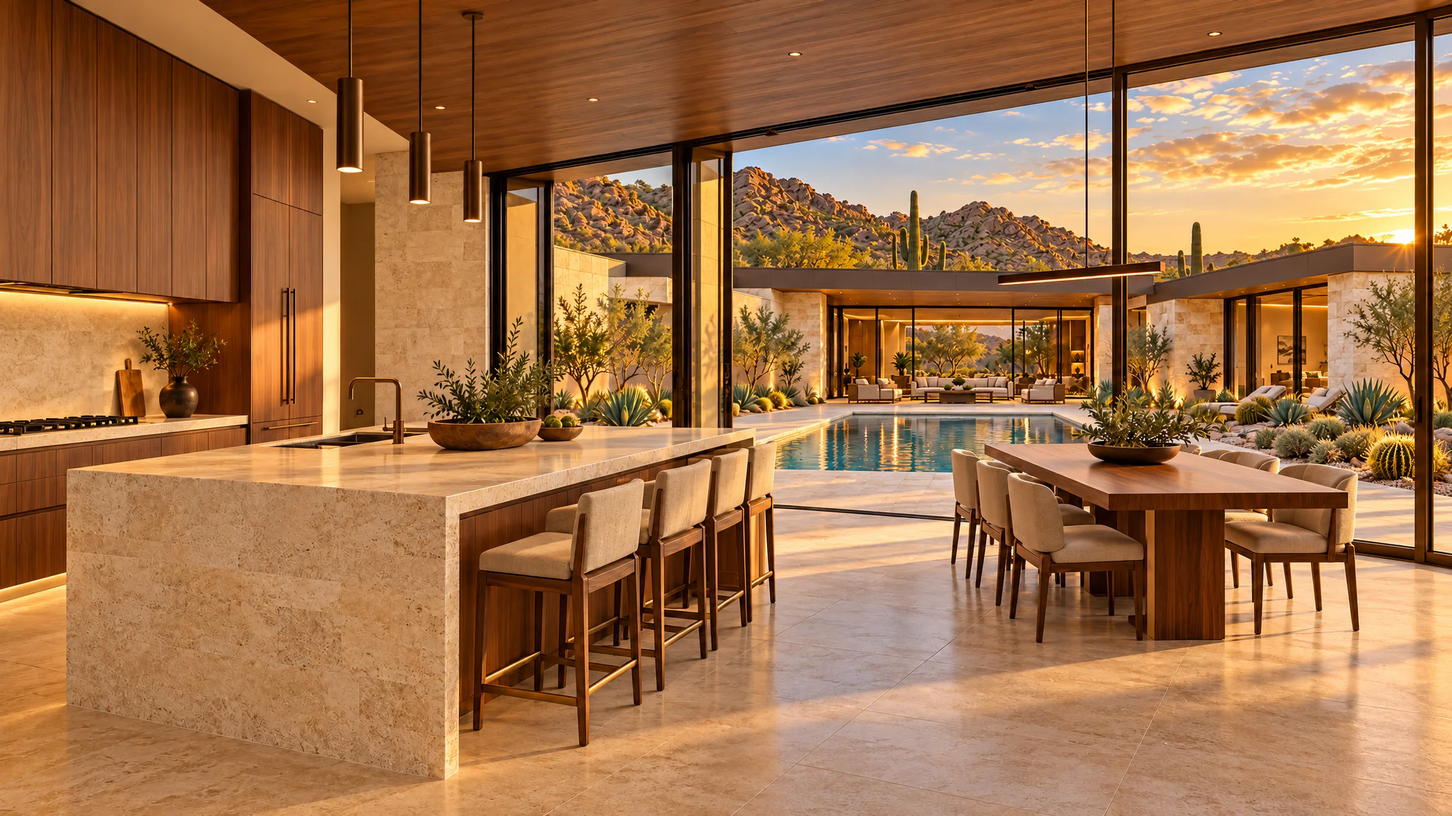
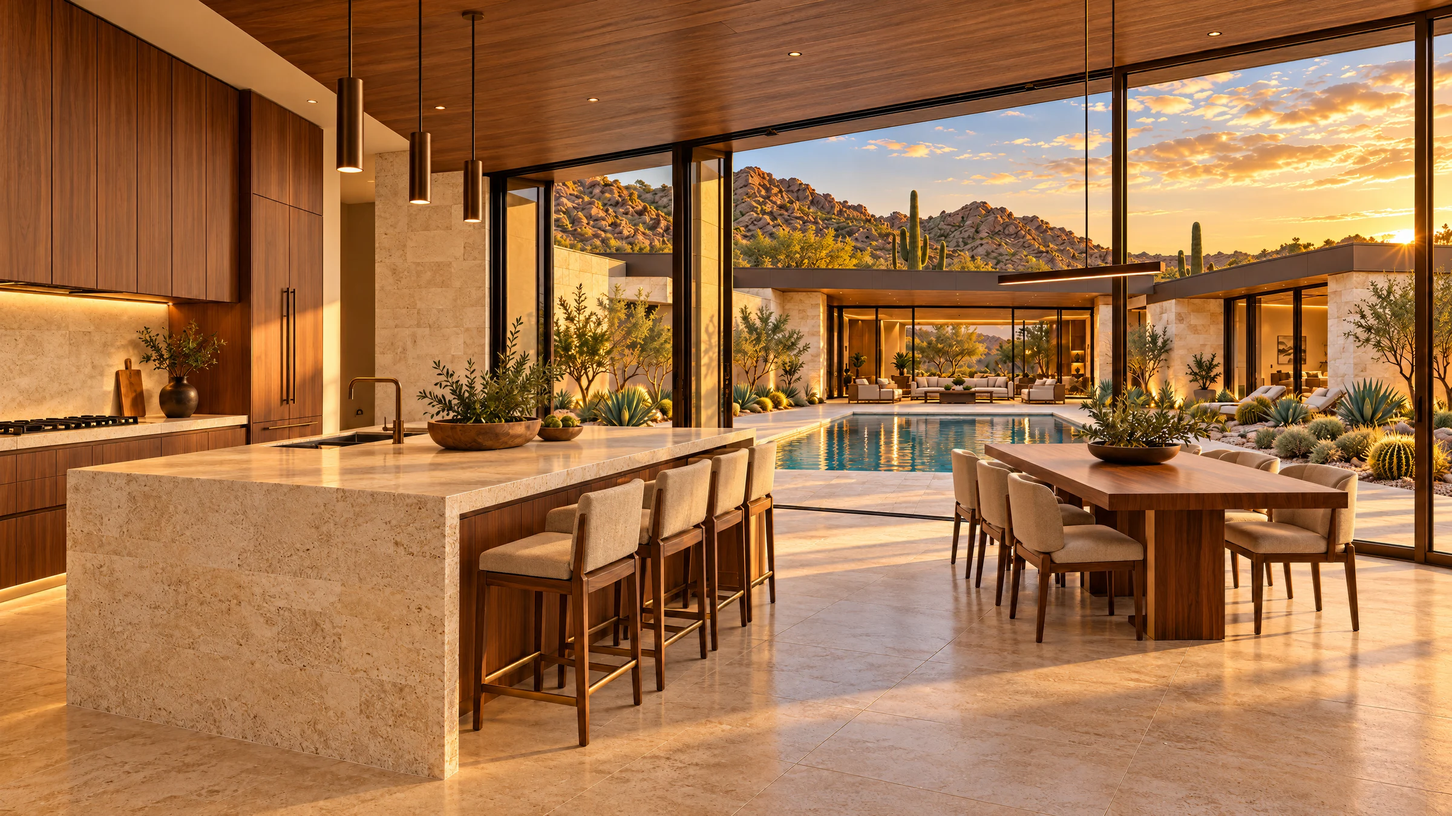
Casa Ocotillo: eleven pictures redrawn at 6K
Street, rear, aerial, top, entry, living room, kitchen and primary bath join the three
hours of the hero: travertine pores, wood grain, agave and gravel, pool reflections.

Claude-Session: https://claude.ai/code/session_01ASz1M7wvY36EhyLJqhTHPH

diff --git a/showcase/casa-ocotillo.html b/showcase/casa-ocotillo.html
@@ -56,7 +56,7 @@
 
 <section class="ap pin" id="approach" aria-label="The approach">
   <div class="stage">
-    <img class="fallback" src="../assets/showcase/casa-ocotillo/aerial-1600.webp" srcset="../assets/showcase/casa-ocotillo/aerial-900.webp 900w, ../assets/showcase/casa-ocotillo/aerial-1600.webp 1600w, ../assets/showcase/casa-ocotillo/aerial-2400.webp 2400w" sizes="100vw" width="1600" height="900" alt="The approach" loading="lazy" decoding="async">
+    <img class="fallback" src="../assets/showcase/casa-ocotillo/aerial-1600.webp?v=6k" srcset="../assets/showcase/casa-ocotillo/aerial-900.webp?v=6k 900w, ../assets/showcase/casa-ocotillo/aerial-1600.webp?v=6k 1600w, ../assets/showcase/casa-ocotillo/aerial-2400.webp?v=6k 2400w, ../assets/showcase/casa-ocotillo/aerial-3200.webp?v=6k 3200w" sizes="100vw" width="1600" height="900" alt="The approach" loading="lazy" decoding="async">
     <div class="stage-shade"></div>
     <div class="ap-head"><p class="eyebrow">The approach</p></div>
     <div class="ap-caps"><div class="ap-cap"><p class="n">01 / 03</p><h3>Arrival</h3><p>A crushed-granite drive winds through saguaro and palo verde to a quiet arrival court.</p></div><div class="ap-cap"><p class="n">02 / 03</p><h3>The street front</h3><p>Limestone walls, a bronze fascia and very few windows: the house keeps its view for the courtyard.</p></div><div class="ap-cap"><p class="n">03 / 03</p><h3>The threshold</h3><p>A ten-foot walnut pivot door under a deep portal. Beyond it, light from the courtyard pulls you through.</p></div></div>
@@ -82,14 +82,14 @@
 <section class="hz" id="rooms" aria-labelledby="hz-h">
   <div class="hz-track">
     <div class="hz-intro"><p class="eyebrow">Inside</p><h2 id="hz-h" style="margin-top:18px">Rooms that open to the water.</h2><p>Living room, kitchen and the primary bath each open onto the courtyard or a walled desert garden.</p></div>
-    <figure class="hz-card " data-cur="View" data-full="../assets/showcase/casa-ocotillo/int_living-2400.webp" data-cap="The living room"><img src="../assets/showcase/casa-ocotillo/int_living-1600.webp" srcset="../assets/showcase/casa-ocotillo/int_living-900.webp 900w, ../assets/showcase/casa-ocotillo/int_living-1600.webp 1600w, ../assets/showcase/casa-ocotillo/int_living-2400.webp 2400w" sizes="70vw" width="1600" height="900" alt="The living room" loading="lazy" decoding="async"><figcaption><span>The living room</span><span>01</span></figcaption></figure><figure class="hz-card " data-cur="View" data-full="../assets/showcase/casa-ocotillo/int_kitchen_dining-2400.webp" data-cap="Kitchen and dining"><img src="../assets/showcase/casa-ocotillo/int_kitchen_dining-1600.webp" srcset="../assets/showcase/casa-ocotillo/int_kitchen_dining-900.webp 900w, ../assets/showcase/casa-ocotillo/int_kitchen_dining-1600.webp 1600w, ../assets/showcase/casa-ocotillo/int_kitchen_dining-2400.webp 2400w" sizes="70vw" width="1600" height="900" alt="Kitchen and dining" loading="lazy" decoding="async"><figcaption><span>Kitchen and dining</span><span>02</span></figcaption></figure><figure class="hz-card " data-cur="View" data-full="../assets/showcase/casa-ocotillo/int_primary_bath-2400.webp" data-cap="The primary bath"><img src="../assets/showcase/casa-ocotillo/int_primary_bath-1600.webp" srcset="../assets/showcase/casa-ocotillo/int_primary_bath-900.webp 900w, ../assets/showcase/casa-ocotillo/int_primary_bath-1600.webp 1600w, ../assets/showcase/casa-ocotillo/int_primary_bath-2400.webp 2400w" sizes="70vw" width="1600" height="900" alt="The primary bath" loading="lazy" decoding="async"><figcaption><span>The primary bath</span><span>03</span></figcaption></figure><figure class="hz-card tall" data-cur="View" data-full="../assets/showcase/casa-ocotillo/entry-2400.webp" data-cap="The portal"><img src="../assets/showcase/casa-ocotillo/entry-1600.webp" srcset="../assets/showcase/casa-ocotillo/entry-900.webp 900w, ../assets/showcase/casa-ocotillo/entry-1600.webp 1600w, ../assets/showcase/casa-ocotillo/entry-2400.webp 2400w" sizes="70vw" width="1600" height="900" alt="The portal" loading="lazy" decoding="async"><figcaption><span>The portal</span><span>04</span></figcaption></figure>
+    <figure class="hz-card " data-cur="View" data-full="../assets/showcase/casa-ocotillo/int_living-2400.webp?v=6k" data-cap="The living room"><img src="../assets/showcase/casa-ocotillo/int_living-1600.webp?v=6k" srcset="../assets/showcase/casa-ocotillo/int_living-900.webp?v=6k 900w, ../assets/showcase/casa-ocotillo/int_living-1600.webp?v=6k 1600w, ../assets/showcase/casa-ocotillo/int_living-2400.webp?v=6k 2400w, ../assets/showcase/casa-ocotillo/int_living-3200.webp?v=6k 3200w" sizes="70vw" width="1600" height="900" alt="The living room" loading="lazy" decoding="async"><figcaption><span>The living room</span><span>01</span></figcaption></figure><figure class="hz-card " data-cur="View" data-full="../assets/showcase/casa-ocotillo/int_kitchen_dining-2400.webp?v=6k" data-cap="Kitchen and dining"><img src="../assets/showcase/casa-ocotillo/int_kitchen_dining-1600.webp?v=6k" srcset="../assets/showcase/casa-ocotillo/int_kitchen_dining-900.webp?v=6k 900w, ../assets/showcase/casa-ocotillo/int_kitchen_dining-1600.webp?v=6k 1600w, ../assets/showcase/casa-ocotillo/int_kitchen_dining-2400.webp?v=6k 2400w, ../assets/showcase/casa-ocotillo/int_kitchen_dining-3200.webp?v=6k 3200w" sizes="70vw" width="1600" height="900" alt="Kitchen and dining" loading="lazy" decoding="async"><figcaption><span>Kitchen and dining</span><span>02</span></figcaption></figure><figure class="hz-card " data-cur="View" data-full="../assets/showcase/casa-ocotillo/int_primary_bath-2400.webp?v=6k" data-cap="The primary bath"><img src="../assets/showcase/casa-ocotillo/int_primary_bath-1600.webp?v=6k" srcset="../assets/showcase/casa-ocotillo/int_primary_bath-900.webp?v=6k 900w, ../assets/showcase/casa-ocotillo/int_primary_bath-1600.webp?v=6k 1600w, ../assets/showcase/casa-ocotillo/int_primary_bath-2400.webp?v=6k 2400w, ../assets/showcase/casa-ocotillo/int_primary_bath-3200.webp?v=6k 3200w" sizes="70vw" width="1600" height="900" alt="The primary bath" loading="lazy" decoding="async"><figcaption><span>The primary bath</span><span>03</span></figcaption></figure><figure class="hz-card tall" data-cur="View" data-full="../assets/showcase/casa-ocotillo/entry-2400.webp?v=6k" data-cap="The portal"><img src="../assets/showcase/casa-ocotillo/entry-1600.webp?v=6k" srcset="../assets/showcase/casa-ocotillo/entry-900.webp?v=6k 900w, ../assets/showcase/casa-ocotillo/entry-1600.webp?v=6k 1600w, ../assets/showcase/casa-ocotillo/entry-2400.webp?v=6k 2400w, ../assets/showcase/casa-ocotillo/entry-3200.webp?v=6k 3200w" sizes="70vw" width="1600" height="900" alt="The portal" loading="lazy" decoding="async"><figcaption><span>The portal</span><span>04</span></figcaption></figure>
     <div class="hz-end"></div>
   </div>
 </section>
 
 <section class="od" id="outdoor" aria-labelledby="od-h">
   <div class="stage">
-    <img class="fallback" src="../assets/showcase/casa-ocotillo/rear-1600.webp" srcset="../assets/showcase/casa-ocotillo/rear-900.webp 900w, ../assets/showcase/casa-ocotillo/rear-1600.webp 1600w, ../assets/showcase/casa-ocotillo/rear-2400.webp 2400w" sizes="100vw" width="1600" height="900" alt="The courtyard" loading="lazy" decoding="async">
+    <img class="fallback" src="../assets/showcase/casa-ocotillo/rear-1600.webp?v=6k" srcset="../assets/showcase/casa-ocotillo/rear-900.webp?v=6k 900w, ../assets/showcase/casa-ocotillo/rear-1600.webp?v=6k 1600w, ../assets/showcase/casa-ocotillo/rear-2400.webp?v=6k 2400w, ../assets/showcase/casa-ocotillo/rear-3200.webp?v=6k 3200w" sizes="100vw" width="1600" height="900" alt="The courtyard" loading="lazy" decoding="async">
     <div class="stage-shade"></div>
     <div class="od-txt"><h2 id="od-h">The courtyard</h2><p>A long, still pool between the wings, with every room opening onto it through walls of glass.</p></div>
   </div>
@@ -99,7 +99,7 @@
   <div class="wrap">
     <div class="sec-head"><h2 id="sp-h" data-split>The site.</h2><p data-fade>Two acres of open desert. The wings close around the courtyard and leave the mountains framed at its far end.</p></div>
     <div class="sp-fig">
-      <img src="../assets/showcase/casa-ocotillo/top-1600.webp" srcset="../assets/showcase/casa-ocotillo/top-900.webp 900w, ../assets/showcase/casa-ocotillo/top-1600.webp 1600w, ../assets/showcase/casa-ocotillo/top-2400.webp 2400w" sizes="(max-width:900px) 100vw, 92vw" width="1600" height="900" alt="Site from above" loading="lazy" decoding="async">
+      <img src="../assets/showcase/casa-ocotillo/top-1600.webp?v=6k" srcset="../assets/showcase/casa-ocotillo/top-900.webp?v=6k 900w, ../assets/showcase/casa-ocotillo/top-1600.webp?v=6k 1600w, ../assets/showcase/casa-ocotillo/top-2400.webp?v=6k 2400w, ../assets/showcase/casa-ocotillo/top-3200.webp?v=6k 3200w" sizes="(max-width:900px) 100vw, 92vw" width="1600" height="900" alt="Site from above" loading="lazy" decoding="async">
       <svg class="plan" viewBox="0 0 1600 900" preserveAspectRatio="none" aria-hidden="true"><defs><mask id="bdm"><path class="bd-mask" d="M171 900 C 260 820 380 770 500 750 S 700 742 790 735" fill="none" stroke="#fff" stroke-width="10"/></mask></defs><path class="bd" d="M171 900 C 260 820 380 770 500 750 S 700 742 790 735" mask="url(#bdm)"/><g class="pin-g"><line class="ld-l" x1="816" y1="324" x2="928" y2="225"/><circle class="dot" cx="816" cy="324" r="5"/></g><g class="pin-g"><line class="ld-l" x1="816" y1="117" x2="640" y2="54"/><circle class="dot" cx="816" cy="117" r="5"/></g><g class="pin-g"><line class="ld-l" x1="1072" y1="279" x2="1248" y2="198"/><circle class="dot" cx="1072" cy="279" r="5"/></g><g class="pin-g"><line class="ld-l" x1="544" y1="252" x2="384" y2="171"/><circle class="dot" cx="544" cy="252" r="5"/></g><g class="pin-g"><line class="ld-l" x1="1024" y1="657" x2="1216" y2="594"/><circle class="dot" cx="1024" cy="657" r="5"/></g><g class="pin-g"><line class="ld-l" x1="816" y1="639" x2="896" y2="783"/><circle class="dot" cx="816" cy="639" r="5"/></g><g class="pin-g"><line class="ld-l" x1="496" y1="666" x2="320" y2="576"/><circle class="dot" cx="496" cy="666" r="5"/></g><g class="pin-g"><line class="ld-l" x1="528" y1="792" x2="320" y2="855"/><circle class="dot" cx="528" cy="792" r="5"/></g></svg>
       <span class="sp-lab " style="left:58.0%;top:25.0%"><em>01</em>Pool courtyard</span><span class="sp-lab l" style="left:40.0%;top:6.0%"><em>02</em>Fire lounge</span><span class="sp-lab " style="left:78.0%;top:22.0%"><em>03</em>Primary wing</span><span class="sp-lab l" style="left:24.0%;top:19.0%"><em>04</em>Guest wing</span><span class="sp-lab " style="left:76.0%;top:66.0%"><em>05</em>Living pavilion</span><span class="sp-lab " style="left:56.0%;top:87.0%"><em>06</em>Entry portal</span><span class="sp-lab l" style="left:20.0%;top:64.0%"><em>07</em>Garage</span><span class="sp-lab l" style="left:20.0%;top:95.0%"><em>08</em>Arrival court</span>
       <svg class="sp-north" viewBox="0 0 54 70" aria-label="North"><path d="M27 4 L40 46 L27 38 L14 46 Z" fill="currentColor"/><text x="27" y="66" text-anchor="middle" fill="currentColor" font-size="13" font-family="Inter Tight, sans-serif" letter-spacing="2">N</text></svg>
@@ -110,12 +110,12 @@
 <section class="gl" id="gallery" aria-labelledby="gl-h">
   <div class="wrap">
     <div class="sec-head"><h2 id="gl-h" data-split>Gallery.</h2><p data-fade>Every view, full size. Tap any picture to open it.</p></div>
-    <div class="gl-grid"><figure class="w12" data-cur="View" data-full="../assets/showcase/casa-ocotillo/hero-2400.webp?v=6k" data-cap="Golden hour"><img src="../assets/showcase/casa-ocotillo/hero-1600.webp?v=6k" srcset="../assets/showcase/casa-ocotillo/hero-900.webp?v=6k 900w, ../assets/showcase/casa-ocotillo/hero-1600.webp?v=6k 1600w, ../assets/showcase/casa-ocotillo/hero-2400.webp?v=6k 2400w, ../assets/showcase/casa-ocotillo/hero-3200.webp?v=6k 3200w" sizes="(max-width:760px) 100vw, 66vw" width="1600" height="900" alt="Golden hour" loading="lazy" decoding="async"><figcaption>Golden hour</figcaption></figure><figure class="w8" data-cur="View" data-full="../assets/showcase/casa-ocotillo/street-2400.webp" data-cap="The street front"><img src="../assets/showcase/casa-ocotillo/street-1600.webp" srcset="../assets/showcase/casa-ocotillo/street-900.webp 900w, ../assets/showcase/casa-ocotillo/street-1600.webp 1600w, ../assets/showcase/casa-ocotillo/street-2400.webp 2400w" sizes="(max-width:760px) 100vw, 66vw" width="1600" height="900" alt="The street front" loading="lazy" decoding="async"><figcaption>The street front</figcaption></figure><figure class="w4" data-cur="View" data-full="../assets/showcase/casa-ocotillo/entry-2400.webp" data-cap="The portal"><img src="../assets/showcase/casa-ocotillo/entry-1600.webp" srcset="../assets/showcase/casa-ocotillo/entry-900.webp 900w, ../assets/showcase/casa-ocotillo/entry-1600.webp 1600w, ../assets/showcase/casa-ocotillo/entry-2400.webp 2400w" sizes="(max-width:760px) 100vw, 66vw" width="1600" height="900" alt="The portal" loading="lazy" decoding="async"><figcaption>The portal</figcaption></figure><figure class="w12" data-cur="View" data-full="../assets/showcase/casa-ocotillo/int_living-2400.webp" data-cap="The living room"><img src="../assets/showcase/casa-ocotillo/int_living-1600.webp" srcset="../assets/showcase/casa-ocotillo/int_living-900.webp 900w, ../assets/showcase/casa-ocotillo/int_living-1600.webp 1600w, ../assets/showcase/casa-ocotillo/int_living-2400.webp 2400w" sizes="(max-width:760px) 100vw, 66vw" width="1600" height="900" alt="The living room" loading="lazy" decoding="async"><figcaption>The living room</figcaption></figure><figure class="w6" data-cur="View" data-full="../assets/showcase/casa-ocotillo/int_kitchen_dining-2400.webp" data-cap="Kitchen and dining"><img src="../assets/showcase/casa-ocotillo/int_kitchen_dining-1600.webp" srcset="../assets/showcase/casa-ocotillo/int_kitchen_dining-900.webp 900w, ../assets/showcase/casa-ocotillo/int_kitchen_dining-1600.webp 1600w, ../assets/showcase/casa-ocotillo/int_kitchen_dining-2400.webp 2400w" sizes="(max-width:760px) 100vw, 66vw" width="1600" height="900" alt="Kitchen and dining" loading="lazy" decoding="async"><figcaption>Kitchen and dining</figcaption></figure><figure class="w6" data-cur="View" data-full="../assets/showcase/casa-ocotillo/int_primary_bath-2400.webp" data-cap="The primary bath"><img src="../assets/showcase/casa-ocotillo/int_primary_bath-1600.webp" srcset="../assets/showcase/casa-ocotillo/int_primary_bath-900.webp 900w, ../assets/showcase/casa-ocotillo/int_primary_bath-1600.webp 1600w, ../assets/showcase/casa-ocotillo/int_primary_bath-2400.webp 2400w" sizes="(max-width:760px) 100vw, 66vw" width="1600" height="900" alt="The primary bath" loading="lazy" decoding="async"><figcaption>The primary bath</figcaption></figure><figure class="w6" data-cur="View" data-full="../assets/showcase/casa-ocotillo/rear-2400.webp" data-cap="The courtyard"><img src="../assets/showcase/casa-ocotillo/rear-1600.webp" srcset="../assets/showcase/casa-ocotillo/rear-900.webp 900w, ../assets/showcase/casa-ocotillo/rear-1600.webp 1600w, ../assets/showcase/casa-ocotillo/rear-2400.webp 2400w" sizes="(max-width:760px) 100vw, 66vw" width="1600" height="900" alt="The courtyard" loading="lazy" decoding="async"><figcaption>The courtyard</figcaption></figure><figure class="w6" data-cur="View" data-full="../assets/showcase/casa-ocotillo/aerial-2400.webp" data-cap="From above"><img src="../assets/showcase/casa-ocotillo/aerial-1600.webp" srcset="../assets/showcase/casa-ocotillo/aerial-900.webp 900w, ../assets/showcase/casa-ocotillo/aerial-1600.webp 1600w, ../assets/showcase/casa-ocotillo/aerial-2400.webp 2400w" sizes="(max-width:760px) 100vw, 66vw" width="1600" height="900" alt="From above" loading="lazy" decoding="async"><figcaption>From above</figcaption></figure><figure class="w6" data-cur="View" data-full="../assets/showcase/casa-ocotillo/hero_bluehour-2400.webp?v=6k" data-cap="Blue hour"><img src="../assets/showcase/casa-ocotillo/hero_bluehour-1600.webp?v=6k" srcset="../assets/showcase/casa-ocotillo/hero_bluehour-900.webp?v=6k 900w, ../assets/showcase/casa-ocotillo/hero_bluehour-1600.webp?v=6k 1600w, ../assets/showcase/casa-ocotillo/hero_bluehour-2400.webp?v=6k 2400w, ../assets/showcase/casa-ocotillo/hero_bluehour-3200.webp?v=6k 3200w" sizes="(max-width:760px) 100vw, 66vw" width="1600" height="900" alt="Blue hour" loading="lazy" decoding="async"><figcaption>Blue hour</figcaption></figure><figure class="w6" data-cur="View" data-full="../assets/showcase/casa-ocotillo/hero_night-2400.webp?v=6k" data-cap="Night"><img src="../assets/showcase/casa-ocotillo/hero_night-1600.webp?v=6k" srcset="../assets/showcase/casa-ocotillo/hero_night-900.webp?v=6k 900w, ../assets/showcase/casa-ocotillo/hero_night-1600.webp?v=6k 1600w, ../assets/showcase/casa-ocotillo/hero_night-2400.webp?v=6k 2400w, ../assets/showcase/casa-ocotillo/hero_night-3200.webp?v=6k 3200w" sizes="(max-width:760px) 100vw, 66vw" width="1600" height="900" alt="Night" loading="lazy" decoding="async"><figcaption>Night</figcaption></figure><figure class="w4" data-cur="View" data-full="../assets/showcase/casa-ocotillo/detail_1-2400.webp" data-cap="Detail"><img src="../assets/showcase/casa-ocotillo/detail_1-1600.webp" srcset="../assets/showcase/casa-ocotillo/detail_1-900.webp 900w, ../assets/showcase/casa-ocotillo/detail_1-1600.webp 1600w, ../assets/showcase/casa-ocotillo/detail_1-2400.webp 2400w" sizes="(max-width:760px) 100vw, 66vw" width="1600" height="900" alt="Detail" loading="lazy" decoding="async"><figcaption>Detail</figcaption></figure><figure class="w8" data-cur="View" data-full="../assets/showcase/casa-ocotillo/detail_2-2400.webp" data-cap="Detail"><img src="../assets/showcase/casa-ocotillo/detail_2-1600.webp" srcset="../assets/showcase/casa-ocotillo/detail_2-900.webp 900w, ../assets/showcase/casa-ocotillo/detail_2-1600.webp 1600w, ../assets/showcase/casa-ocotillo/detail_2-2400.webp 2400w" sizes="(max-width:760px) 100vw, 66vw" width="1600" height="900" alt="Detail" loading="lazy" decoding="async"><figcaption>Detail</figcaption></figure><figure class="w12" data-cur="View" data-full="../assets/showcase/casa-ocotillo/top-2400.webp" data-cap="Site"><img src="../assets/showcase/casa-ocotillo/top-1600.webp" srcset="../assets/showcase/casa-ocotillo/top-900.webp 900w, ../assets/showcase/casa-ocotillo/top-1600.webp 1600w, ../assets/showcase/casa-ocotillo/top-2400.webp 2400w" sizes="(max-width:760px) 100vw, 66vw" width="1600" height="900" alt="Site" loading="lazy" decoding="async"><figcaption>Site</figcaption></figure></div>
+    <div class="gl-grid"><figure class="w12" data-cur="View" data-full="../assets/showcase/casa-ocotillo/hero-2400.webp?v=6k" data-cap="Golden hour"><img src="../assets/showcase/casa-ocotillo/hero-1600.webp?v=6k" srcset="../assets/showcase/casa-ocotillo/hero-900.webp?v=6k 900w, ../assets/showcase/casa-ocotillo/hero-1600.webp?v=6k 1600w, ../assets/showcase/casa-ocotillo/hero-2400.webp?v=6k 2400w, ../assets/showcase/casa-ocotillo/hero-3200.webp?v=6k 3200w" sizes="(max-width:760px) 100vw, 66vw" width="1600" height="900" alt="Golden hour" loading="lazy" decoding="async"><figcaption>Golden hour</figcaption></figure><figure class="w8" data-cur="View" data-full="../assets/showcase/casa-ocotillo/street-2400.webp?v=6k" data-cap="The street front"><img src="../assets/showcase/casa-ocotillo/street-1600.webp?v=6k" srcset="../assets/showcase/casa-ocotillo/street-900.webp?v=6k 900w, ../assets/showcase/casa-ocotillo/street-1600.webp?v=6k 1600w, ../assets/showcase/casa-ocotillo/street-2400.webp?v=6k 2400w, ../assets/showcase/casa-ocotillo/street-3200.webp?v=6k 3200w" sizes="(max-width:760px) 100vw, 66vw" width="1600" height="900" alt="The street front" loading="lazy" decoding="async"><figcaption>The street front</figcaption></figure><figure class="w4" data-cur="View" data-full="../assets/showcase/casa-ocotillo/entry-2400.webp?v=6k" data-cap="The portal"><img src="../assets/showcase/casa-ocotillo/entry-1600.webp?v=6k" srcset="../assets/showcase/casa-ocotillo/entry-900.webp?v=6k 900w, ../assets/showcase/casa-ocotillo/entry-1600.webp?v=6k 1600w, ../assets/showcase/casa-ocotillo/entry-2400.webp?v=6k 2400w, ../assets/showcase/casa-ocotillo/entry-3200.webp?v=6k 3200w" sizes="(max-width:760px) 100vw, 66vw" width="1600" height="900" alt="The portal" loading="lazy" decoding="async"><figcaption>The portal</figcaption></figure><figure class="w12" data-cur="View" data-full="../assets/showcase/casa-ocotillo/int_living-2400.webp?v=6k" data-cap="The living room"><img src="../assets/showcase/casa-ocotillo/int_living-1600.webp?v=6k" srcset="../assets/showcase/casa-ocotillo/int_living-900.webp?v=6k 900w, ../assets/showcase/casa-ocotillo/int_living-1600.webp?v=6k 1600w, ../assets/showcase/casa-ocotillo/int_living-2400.webp?v=6k 2400w, ../assets/showcase/casa-ocotillo/int_living-3200.webp?v=6k 3200w" sizes="(max-width:760px) 100vw, 66vw" width="1600" height="900" alt="The living room" loading="lazy" decoding="async"><figcaption>The living room</figcaption></figure><figure class="w6" data-cur="View" data-full="../assets/showcase/casa-ocotillo/int_kitchen_dining-2400.webp?v=6k" data-cap="Kitchen and dining"><img src="../assets/showcase/casa-ocotillo/int_kitchen_dining-1600.webp?v=6k" srcset="../assets/showcase/casa-ocotillo/int_kitchen_dining-900.webp?v=6k 900w, ../assets/showcase/casa-ocotillo/int_kitchen_dining-1600.webp?v=6k 1600w, ../assets/showcase/casa-ocotillo/int_kitchen_dining-2400.webp?v=6k 2400w, ../assets/showcase/casa-ocotillo/int_kitchen_dining-3200.webp?v=6k 3200w" sizes="(max-width:760px) 100vw, 66vw" width="1600" height="900" alt="Kitchen and dining" loading="lazy" decoding="async"><figcaption>Kitchen and dining</figcaption></figure><figure class="w6" data-cur="View" data-full="../assets/showcase/casa-ocotillo/int_primary_bath-2400.webp?v=6k" data-cap="The primary bath"><img src="../assets/showcase/casa-ocotillo/int_primary_bath-1600.webp?v=6k" srcset="../assets/showcase/casa-ocotillo/int_primary_bath-900.webp?v=6k 900w, ../assets/showcase/casa-ocotillo/int_primary_bath-1600.webp?v=6k 1600w, ../assets/showcase/casa-ocotillo/int_primary_bath-2400.webp?v=6k 2400w, ../assets/showcase/casa-ocotillo/int_primary_bath-3200.webp?v=6k 3200w" sizes="(max-width:760px) 100vw, 66vw" width="1600" height="900" alt="The primary bath" loading="lazy" decoding="async"><figcaption>The primary bath</figcaption></figure><figure class="w6" data-cur="View" data-full="../assets/showcase/casa-ocotillo/rear-2400.webp?v=6k" data-cap="The courtyard"><img src="../assets/showcase/casa-ocotillo/rear-1600.webp?v=6k" srcset="../assets/showcase/casa-ocotillo/rear-900.webp?v=6k 900w, ../assets/showcase/casa-ocotillo/rear-1600.webp?v=6k 1600w, ../assets/showcase/casa-ocotillo/rear-2400.webp?v=6k 2400w, ../assets/showcase/casa-ocotillo/rear-3200.webp?v=6k 3200w" sizes="(max-width:760px) 100vw, 66vw" width="1600" height="900" alt="The courtyard" loading="lazy" decoding="async"><figcaption>The courtyard</figcaption></figure><figure class="w6" data-cur="View" data-full="../assets/showcase/casa-ocotillo/aerial-2400.webp?v=6k" data-cap="From above"><img src="../assets/showcase/casa-ocotillo/aerial-1600.webp?v=6k" srcset="../assets/showcase/casa-ocotillo/aerial-900.webp?v=6k 900w, ../assets/showcase/casa-ocotillo/aerial-1600.webp?v=6k 1600w, ../assets/showcase/casa-ocotillo/aerial-2400.webp?v=6k 2400w, ../assets/showcase/casa-ocotillo/aerial-3200.webp?v=6k 3200w" sizes="(max-width:760px) 100vw, 66vw" width="1600" height="900" alt="From above" loading="lazy" decoding="async"><figcaption>From above</figcaption></figure><figure class="w6" data-cur="View" data-full="../assets/showcase/casa-ocotillo/hero_bluehour-2400.webp?v=6k" data-cap="Blue hour"><img src="../assets/showcase/casa-ocotillo/hero_bluehour-1600.webp?v=6k" srcset="../assets/showcase/casa-ocotillo/hero_bluehour-900.webp?v=6k 900w, ../assets/showcase/casa-ocotillo/hero_bluehour-1600.webp?v=6k 1600w, ../assets/showcase/casa-ocotillo/hero_bluehour-2400.webp?v=6k 2400w, ../assets/showcase/casa-ocotillo/hero_bluehour-3200.webp?v=6k 3200w" sizes="(max-width:760px) 100vw, 66vw" width="1600" height="900" alt="Blue hour" loading="lazy" decoding="async"><figcaption>Blue hour</figcaption></figure><figure class="w6" data-cur="View" data-full="../assets/showcase/casa-ocotillo/hero_night-2400.webp?v=6k" data-cap="Night"><img src="../assets/showcase/casa-ocotillo/hero_night-1600.webp?v=6k" srcset="../assets/showcase/casa-ocotillo/hero_night-900.webp?v=6k 900w, ../assets/showcase/casa-ocotillo/hero_night-1600.webp?v=6k 1600w, ../assets/showcase/casa-ocotillo/hero_night-2400.webp?v=6k 2400w, ../assets/showcase/casa-ocotillo/hero_night-3200.webp?v=6k 3200w" sizes="(max-width:760px) 100vw, 66vw" width="1600" height="900" alt="Night" loading="lazy" decoding="async"><figcaption>Night</figcaption></figure><figure class="w4" data-cur="View" data-full="../assets/showcase/casa-ocotillo/detail_1-2400.webp" data-cap="Detail"><img src="../assets/showcase/casa-ocotillo/detail_1-1600.webp" srcset="../assets/showcase/casa-ocotillo/detail_1-900.webp 900w, ../assets/showcase/casa-ocotillo/detail_1-1600.webp 1600w, ../assets/showcase/casa-ocotillo/detail_1-2400.webp 2400w" sizes="(max-width:760px) 100vw, 66vw" width="1600" height="900" alt="Detail" loading="lazy" decoding="async"><figcaption>Detail</figcaption></figure><figure class="w8" data-cur="View" data-full="../assets/showcase/casa-ocotillo/detail_2-2400.webp" data-cap="Detail"><img src="../assets/showcase/casa-ocotillo/detail_2-1600.webp" srcset="../assets/showcase/casa-ocotillo/detail_2-900.webp 900w, ../assets/showcase/casa-ocotillo/detail_2-1600.webp 1600w, ../assets/showcase/casa-ocotillo/detail_2-2400.webp 2400w" sizes="(max-width:760px) 100vw, 66vw" width="1600" height="900" alt="Detail" loading="lazy" decoding="async"><figcaption>Detail</figcaption></figure><figure class="w12" data-cur="View" data-full="../assets/showcase/casa-ocotillo/top-2400.webp?v=6k" data-cap="Site"><img src="../assets/showcase/casa-ocotillo/top-1600.webp?v=6k" srcset="../assets/showcase/casa-ocotillo/top-900.webp?v=6k 900w, ../assets/showcase/casa-ocotillo/top-1600.webp?v=6k 1600w, ../assets/showcase/casa-ocotillo/top-2400.webp?v=6k 2400w, ../assets/showcase/casa-ocotillo/top-3200.webp?v=6k 3200w" sizes="(max-width:760px) 100vw, 66vw" width="1600" height="900" alt="Site" loading="lazy" decoding="async"><figcaption>Site</figcaption></figure></div>
   </div>
 </section>
 
 <section class="eq" id="enquire" aria-labelledby="eq-h">
-  <div class="eq-bg" aria-hidden="true"><img src="../assets/showcase/casa-ocotillo/rear-1600.webp" srcset="../assets/showcase/casa-ocotillo/rear-900.webp 900w, ../assets/showcase/casa-ocotillo/rear-1600.webp 1600w, ../assets/showcase/casa-ocotillo/rear-2400.webp 2400w" sizes="100vw" width="1600" height="900" alt="" loading="lazy" decoding="async"></div>
+  <div class="eq-bg" aria-hidden="true"><img src="../assets/showcase/casa-ocotillo/rear-1600.webp?v=6k" srcset="../assets/showcase/casa-ocotillo/rear-900.webp?v=6k 900w, ../assets/showcase/casa-ocotillo/rear-1600.webp?v=6k 1600w, ../assets/showcase/casa-ocotillo/rear-2400.webp?v=6k 2400w, ../assets/showcase/casa-ocotillo/rear-3200.webp?v=6k 3200w" sizes="100vw" width="1600" height="900" alt="" loading="lazy" decoding="async"></div>
   <div class="eq-in wrap">
     <p class="eyebrow">Private showings by appointment</p>
     <h2 id="eq-h" data-split>Arrange a private showing.</h2>
@@ -140,7 +140,7 @@
 </div></div>
 <div class="cur" aria-hidden="true"><i></i><b></b></div>
 
-<script>window.SHOW = {"base": "../assets/showcase/casa-ocotillo", "slug": "casa-ocotillo", "heroPos": [0.56, 0.5], "times": [{"key": "hero", "label": "6:10 PM", "name": "Golden hour"}, {"key": "hero_bluehour", "label": "7:25 PM", "name": "Blue hour"}, {"key": "hero_night", "label": "10:05 PM", "name": "Night"}], "approach": [{"key": "aerial", "focus": [0.517, 0.52]}, {"key": "street", "focus": [0.567, 0.507]}, {"key": "entry", "focus": [0.588, 0.5]}], "materials": [{"name": "Honed limestone", "at": [0.6, 0.42]}, {"name": "Bronze fascia", "at": [0.743, 0.311]}, {"name": "Walnut pivot door", "at": [0.532, 0.46]}, {"name": "Glass walls", "at": [0.771, 0.444]}, {"name": "Native planting", "at": [0.671, 0.647]}], "outdoor": {"key": "rear", "effect": "water", "focus": [0.5, 0.6]}, "hi": ["hero", "hero_bluehour", "hero_night"], "v": "6k"};</script>
+<script>window.SHOW = {"base": "../assets/showcase/casa-ocotillo", "slug": "casa-ocotillo", "heroPos": [0.56, 0.5], "times": [{"key": "hero", "label": "6:10 PM", "name": "Golden hour"}, {"key": "hero_bluehour", "label": "7:25 PM", "name": "Blue hour"}, {"key": "hero_night", "label": "10:05 PM", "name": "Night"}], "approach": [{"key": "aerial", "focus": [0.517, 0.52]}, {"key": "street", "focus": [0.567, 0.507]}, {"key": "entry", "focus": [0.588, 0.5]}], "materials": [{"name": "Honed limestone", "at": [0.6, 0.42]}, {"name": "Bronze fascia", "at": [0.743, 0.311]}, {"name": "Walnut pivot door", "at": [0.532, 0.46]}, {"name": "Glass walls", "at": [0.771, 0.444]}, {"name": "Native planting", "at": [0.671, 0.647]}], "outdoor": {"key": "rear", "effect": "water", "focus": [0.5, 0.6]}, "hi": ["aerial", "entry", "hero", "hero_bluehour", "hero_night", "int_kitchen_dining", "int_living", "int_primary_bath", "rear", "street", "top"], "v": "6k"};</script>
 <script src="../assets/showcase/vendor/gsap.min.js"></script>
 <script src="../assets/showcase/vendor/ScrollTrigger.min.js"></script>
 <script src="../assets/showcase/vendor/SplitText.min.js"></script>

diff --git a/index.html b/index.html
@@ -23,7 +23,7 @@
 <link rel="preconnect" href="https://fonts.gstatic.com" crossorigin>
 <link rel="stylesheet" href="https://fonts.googleapis.com/css2?family=Archivo:wdth,wght@62..125,100..900&family=Noto+Serif+Display:ital,wght@0,300..500;1,300..400&display=swap">
 <link rel="preload" as="fetch" href="/assets/home/model.bin" crossorigin>
-<link rel="stylesheet" href="/assets/home/v3/home.css?v=3h">
+<link rel="stylesheet" href="/assets/home/v3/home.css?v=3i">
 <script>if(matchMedia('(prefers-reduced-motion: reduce)').matches)document.documentElement.classList.add('rm');setTimeout(function(){if(!window.gsap){var h=document.documentElement;h.classList.remove('js');h.classList.add('no-js')}},6000)</script>
 <script defer src="/_vercel/insights/script.js"></script>
 </head>
@@ -89,7 +89,7 @@
       </div>
     </div>
   </div>
-  <script type="application/json" class="pres-data">[{"house": 0, "src": "/assets/showcase/larkspur-ridge/hero", "depth": "/assets/showcase/larkspur-ridge/hero-depth.webp", "ch": 0, "clock": "4:40 PM", "hour": "Late afternoon", "mode": 0, "hi": true, "v": "6k"}, {"house": 0, "src": "/assets/showcase/larkspur-ridge/hero_bluehour", "depth": "/assets/showcase/larkspur-ridge/hero-depth.webp", "ch": 0, "clock": "7:55 PM", "hour": "Blue hour", "mode": 1, "hi": true, "v": "6k"}, {"house": 0, "src": "/assets/showcase/larkspur-ridge/hero_night", "depth": "/assets/showcase/larkspur-ridge/hero-depth.webp", "ch": 0, "clock": "10:20 PM", "hour": "Night", "mode": 1, "hi": true, "v": "6k"}, {"house": 0, "src": "/assets/showcase/larkspur-ridge/street", "depth": "/assets/showcase/larkspur-ridge/street-depth.webp", "ch": 1, "mode": 0, "o": [0.3, 0.62], "hi": true, "v": "6k"}, {"house": 0, "src": "/assets/showcase/larkspur-ridge/entry", "depth": "/assets/showcase/larkspur-ridge/entry-depth.webp", "ch": 1, "mode": 0, "o": [0.5, 0.5], "hi": true, "v": "6k"}, {"house": 0, "src": "/assets/showcase/larkspur-ridge/detail_1", "ch": 2, "mode": 0, "o": [0.5, 0.4], "hi": true, "v": "6k"}, {"house": 0, "src": "/assets/showcase/larkspur-ridge/int_great_room", "ch": 3, "mode": 0, "o": [0.7, 0.5], "hi": true, "v": "6k"}, {"house": 1, "src": "/assets/showcase/casa-ocotillo/hero", "depth": "/assets/showcase/casa-ocotillo/hero-depth.webp", "ch": 0, "clock": "6:10 PM", "hour": "Golden hour", "mode": 2, "o": [0.5, 0.68], "hi": true, "v": "6k"}, {"house": 1, "src": "/assets/showcase/casa-ocotillo/hero_bluehour", "depth": "/assets/showcase/casa-ocotillo/hero-depth.webp", "ch": 0, "clock": "7:25 PM", "hour": "Blue hour", "mode": 1, "hi": true, "v": "6k"}, {"house": 1, "src": "/assets/showcase/casa-ocotillo/hero_night", "depth": "/assets/showcase/casa-ocotillo/hero-depth.webp", "ch": 0, "clock": "10:05 PM", "hour": "Night", "mode": 1, "hi": true, "v": "6k"}, {"house": 1, "src": "/assets/showcase/casa-ocotillo/rear", "depth": "/assets/showcase/casa-ocotillo/rear-depth.webp", "ch": 1, "mode": 0, "o": [0.5, 0.7]}, {"house": 1, "src": "/assets/showcase/casa-ocotillo/entry", "depth": "/assets/showcase/casa-ocotillo/entry-depth.webp", "ch": 1, "mode": 0, "o": [0.4, 0.5]}, {"house": 1, "src": "/assets/showcase/casa-ocotillo/detail_1", "ch": 2, "mode": 0, "o": [0.5, 0.4]}, {"house": 1, "src": "/assets/showcase/casa-ocotillo/int_living", "ch": 3, "mode": 0, "o": [0.6, 0.55]}]</script>
+  <script type="application/json" class="pres-data">[{"house": 0, "src": "/assets/showcase/larkspur-ridge/hero", "depth": "/assets/showcase/larkspur-ridge/hero-depth.webp", "ch": 0, "clock": "4:40 PM", "hour": "Late afternoon", "mode": 0, "hi": true, "v": "6k"}, {"house": 0, "src": "/assets/showcase/larkspur-ridge/hero_bluehour", "depth": "/assets/showcase/larkspur-ridge/hero-depth.webp", "ch": 0, "clock": "7:55 PM", "hour": "Blue hour", "mode": 1, "hi": true, "v": "6k"}, {"house": 0, "src": "/assets/showcase/larkspur-ridge/hero_night", "depth": "/assets/showcase/larkspur-ridge/hero-depth.webp", "ch": 0, "clock": "10:20 PM", "hour": "Night", "mode": 1, "hi": true, "v": "6k"}, {"house": 0, "src": "/assets/showcase/larkspur-ridge/street", "depth": "/assets/showcase/larkspur-ridge/street-depth.webp", "ch": 1, "mode": 0, "o": [0.3, 0.62], "hi": true, "v": "6k"}, {"house": 0, "src": "/assets/showcase/larkspur-ridge/entry", "depth": "/assets/showcase/larkspur-ridge/entry-depth.webp", "ch": 1, "mode": 0, "o": [0.5, 0.5], "hi": true, "v": "6k"}, {"house": 0, "src": "/assets/showcase/larkspur-ridge/detail_1", "ch": 2, "mode": 0, "o": [0.5, 0.4], "hi": true, "v": "6k"}, {"house": 0, "src": "/assets/showcase/larkspur-ridge/int_great_room", "ch": 3, "mode": 0, "o": [0.7, 0.5], "hi": true, "v": "6k"}, {"house": 1, "src": "/assets/showcase/casa-ocotillo/hero", "depth": "/assets/showcase/casa-ocotillo/hero-depth.webp", "ch": 0, "clock": "6:10 PM", "hour": "Golden hour", "mode": 2, "o": [0.5, 0.68], "hi": true, "v": "6k"}, {"house": 1, "src": "/assets/showcase/casa-ocotillo/hero_bluehour", "depth": "/assets/showcase/casa-ocotillo/hero-depth.webp", "ch": 0, "clock": "7:25 PM", "hour": "Blue hour", "mode": 1, "hi": true, "v": "6k"}, {"house": 1, "src": "/assets/showcase/casa-ocotillo/hero_night", "depth": "/assets/showcase/casa-ocotillo/hero-depth.webp", "ch": 0, "clock": "10:05 PM", "hour": "Night", "mode": 1, "hi": true, "v": "6k"}, {"house": 1, "src": "/assets/showcase/casa-ocotillo/rear", "depth": "/assets/showcase/casa-ocotillo/rear-depth.webp", "ch": 1, "mode": 0, "o": [0.5, 0.7], "hi": true, "v": "6k"}, {"house": 1, "src": "/assets/showcase/casa-ocotillo/entry", "depth": "/assets/showcase/casa-ocotillo/entry-depth.webp", "ch": 1, "mode": 0, "o": [0.4, 0.5], "hi": true, "v": "6k"}, {"house": 1, "src": "/assets/showcase/casa-ocotillo/detail_1", "ch": 2, "mode": 0, "o": [0.5, 0.4]}, {"house": 1, "src": "/assets/showcase/casa-ocotillo/int_living", "ch": 3, "mode": 0, "o": [0.6, 0.55], "hi": true, "v": "6k"}]</script>
   <script type="application/json" class="pres-houses">[{"name": "Larkspur Ridge", "sub": "A mountain modern residence in Summit County, Colorado", "slug": "larkspur-ridge", "href": "/showcase/larkspur-ridge"}, {"name": "Casa Ocotillo", "sub": "A courtyard residence in the high Sonoran Desert, Arizona", "slug": "casa-ocotillo", "href": "/showcase/casa-ocotillo"}]</script>
 </section>
 
@@ -245,8 +245,8 @@
 <script src="/assets/vendor/ScrollTrigger-3.13.0.min.js"></script>
 <script src="/assets/vendor/lenis-1.3.4.min.js"></script>
 <script src="/assets/vendor/three-0.149.0.min.js"></script>
-<script src="/assets/home/v3/home.js?v=3h"></script>
-<script src="/assets/home/v3/home3d.js?v=3h"></script>
+<script src="/assets/home/v3/home.js?v=3i"></script>
+<script src="/assets/home/v3/home3d.js?v=3i"></script>
 <script src="/assets/pv.js?v=3" defer></script>
 </body>
 </html>

diff --git a/preview/home.html b/preview/home.html
@@ -24,7 +24,7 @@
 <link rel="preconnect" href="https://fonts.gstatic.com" crossorigin>
 <link rel="stylesheet" href="https://fonts.googleapis.com/css2?family=Archivo:wdth,wght@62..125,100..900&family=Noto+Serif+Display:ital,wght@0,300..500;1,300..400&display=swap">
 <link rel="preload" as="fetch" href="/assets/home/model.bin" crossorigin>
-<link rel="stylesheet" href="/assets/home/v3/home.css?v=3h">
+<link rel="stylesheet" href="/assets/home/v3/home.css?v=3i">
 <script>if(matchMedia('(prefers-reduced-motion: reduce)').matches)document.documentElement.classList.add('rm');setTimeout(function(){if(!window.gsap){var h=document.documentElement;h.classList.remove('js');h.classList.add('no-js')}},6000)</script>
 <script defer src="/_vercel/insights/script.js"></script>
 </head>
@@ -90,7 +90,7 @@
       </div>
     </div>
   </div>
-  <script type="application/json" class="pres-data">[{"house": 0, "src": "/assets/showcase/larkspur-ridge/hero", "depth": "/assets/showcase/larkspur-ridge/hero-depth.webp", "ch": 0, "clock": "4:40 PM", "hour": "Late afternoon", "mode": 0, "hi": true, "v": "6k"}, {"house": 0, "src": "/assets/showcase/larkspur-ridge/hero_bluehour", "depth": "/assets/showcase/larkspur-ridge/hero-depth.webp", "ch": 0, "clock": "7:55 PM", "hour": "Blue hour", "mode": 1, "hi": true, "v": "6k"}, {"house": 0, "src": "/assets/showcase/larkspur-ridge/hero_night", "depth": "/assets/showcase/larkspur-ridge/hero-depth.webp", "ch": 0, "clock": "10:20 PM", "hour": "Night", "mode": 1, "hi": true, "v": "6k"}, {"house": 0, "src": "/assets/showcase/larkspur-ridge/street", "depth": "/assets/showcase/larkspur-ridge/street-depth.webp", "ch": 1, "mode": 0, "o": [0.3, 0.62], "hi": true, "v": "6k"}, {"house": 0, "src": "/assets/showcase/larkspur-ridge/entry", "depth": "/assets/showcase/larkspur-ridge/entry-depth.webp", "ch": 1, "mode": 0, "o": [0.5, 0.5], "hi": true, "v": "6k"}, {"house": 0, "src": "/assets/showcase/larkspur-ridge/detail_1", "ch": 2, "mode": 0, "o": [0.5, 0.4], "hi": true, "v": "6k"}, {"house": 0, "src": "/assets/showcase/larkspur-ridge/int_great_room", "ch": 3, "mode": 0, "o": [0.7, 0.5], "hi": true, "v": "6k"}, {"house": 1, "src": "/assets/showcase/casa-ocotillo/hero", "depth": "/assets/showcase/casa-ocotillo/hero-depth.webp", "ch": 0, "clock": "6:10 PM", "hour": "Golden hour", "mode": 2, "o": [0.5, 0.68], "hi": true, "v": "6k"}, {"house": 1, "src": "/assets/showcase/casa-ocotillo/hero_bluehour", "depth": "/assets/showcase/casa-ocotillo/hero-depth.webp", "ch": 0, "clock": "7:25 PM", "hour": "Blue hour", "mode": 1, "hi": true, "v": "6k"}, {"house": 1, "src": "/assets/showcase/casa-ocotillo/hero_night", "depth": "/assets/showcase/casa-ocotillo/hero-depth.webp", "ch": 0, "clock": "10:05 PM", "hour": "Night", "mode": 1, "hi": true, "v": "6k"}, {"house": 1, "src": "/assets/showcase/casa-ocotillo/rear", "depth": "/assets/showcase/casa-ocotillo/rear-depth.webp", "ch": 1, "mode": 0, "o": [0.5, 0.7]}, {"house": 1, "src": "/assets/showcase/casa-ocotillo/entry", "depth": "/assets/showcase/casa-ocotillo/entry-depth.webp", "ch": 1, "mode": 0, "o": [0.4, 0.5]}, {"house": 1, "src": "/assets/showcase/casa-ocotillo/detail_1", "ch": 2, "mode": 0, "o": [0.5, 0.4]}, {"house": 1, "src": "/assets/showcase/casa-ocotillo/int_living", "ch": 3, "mode": 0, "o": [0.6, 0.55]}]</script>
+  <script type="application/json" class="pres-data">[{"house": 0, "src": "/assets/showcase/larkspur-ridge/hero", "depth": "/assets/showcase/larkspur-ridge/hero-depth.webp", "ch": 0, "clock": "4:40 PM", "hour": "Late afternoon", "mode": 0, "hi": true, "v": "6k"}, {"house": 0, "src": "/assets/showcase/larkspur-ridge/hero_bluehour", "depth": "/assets/showcase/larkspur-ridge/hero-depth.webp", "ch": 0, "clock": "7:55 PM", "hour": "Blue hour", "mode": 1, "hi": true, "v": "6k"}, {"house": 0, "src": "/assets/showcase/larkspur-ridge/hero_night", "depth": "/assets/showcase/larkspur-ridge/hero-depth.webp", "ch": 0, "clock": "10:20 PM", "hour": "Night", "mode": 1, "hi": true, "v": "6k"}, {"house": 0, "src": "/assets/showcase/larkspur-ridge/street", "depth": "/assets/showcase/larkspur-ridge/street-depth.webp", "ch": 1, "mode": 0, "o": [0.3, 0.62], "hi": true, "v": "6k"}, {"house": 0, "src": "/assets/showcase/larkspur-ridge/entry", "depth": "/assets/showcase/larkspur-ridge/entry-depth.webp", "ch": 1, "mode": 0, "o": [0.5, 0.5], "hi": true, "v": "6k"}, {"house": 0, "src": "/assets/showcase/larkspur-ridge/detail_1", "ch": 2, "mode": 0, "o": [0.5, 0.4], "hi": true, "v": "6k"}, {"house": 0, "src": "/assets/showcase/larkspur-ridge/int_great_room", "ch": 3, "mode": 0, "o": [0.7, 0.5], "hi": true, "v": "6k"}, {"house": 1, "src": "/assets/showcase/casa-ocotillo/hero", "depth": "/assets/showcase/casa-ocotillo/hero-depth.webp", "ch": 0, "clock": "6:10 PM", "hour": "Golden hour", "mode": 2, "o": [0.5, 0.68], "hi": true, "v": "6k"}, {"house": 1, "src": "/assets/showcase/casa-ocotillo/hero_bluehour", "depth": "/assets/showcase/casa-ocotillo/hero-depth.webp", "ch": 0, "clock": "7:25 PM", "hour": "Blue hour", "mode": 1, "hi": true, "v": "6k"}, {"house": 1, "src": "/assets/showcase/casa-ocotillo/hero_night", "depth": "/assets/showcase/casa-ocotillo/hero-depth.webp", "ch": 0, "clock": "10:05 PM", "hour": "Night", "mode": 1, "hi": true, "v": "6k"}, {"house": 1, "src": "/assets/showcase/casa-ocotillo/rear", "depth": "/assets/showcase/casa-ocotillo/rear-depth.webp", "ch": 1, "mode": 0, "o": [0.5, 0.7], "hi": true, "v": "6k"}, {"house": 1, "src": "/assets/showcase/casa-ocotillo/entry", "depth": "/assets/showcase/casa-ocotillo/entry-depth.webp", "ch": 1, "mode": 0, "o": [0.4, 0.5], "hi": true, "v": "6k"}, {"house": 1, "src": "/assets/showcase/casa-ocotillo/detail_1", "ch": 2, "mode": 0, "o": [0.5, 0.4]}, {"house": 1, "src": "/assets/showcase/casa-ocotillo/int_living", "ch": 3, "mode": 0, "o": [0.6, 0.55], "hi": true, "v": "6k"}]</script>
   <script type="application/json" class="pres-houses">[{"name": "Larkspur Ridge", "sub": "A mountain modern residence in Summit County, Colorado", "slug": "larkspur-ridge", "href": "/showcase/larkspur-ridge"}, {"name": "Casa Ocotillo", "sub": "A courtyard residence in the high Sonoran Desert, Arizona", "slug": "casa-ocotillo", "href": "/showcase/casa-ocotillo"}]</script>
 </section>
 
@@ -246,8 +246,8 @@
 <script src="/assets/vendor/ScrollTrigger-3.13.0.min.js"></script>
 <script src="/assets/vendor/lenis-1.3.4.min.js"></script>
 <script src="/assets/vendor/three-0.149.0.min.js"></script>
-<script src="/assets/home/v3/home.js?v=3h"></script>
-<script src="/assets/home/v3/home3d.js?v=3h"></script>
+<script src="/assets/home/v3/home.js?v=3i"></script>
+<script src="/assets/home/v3/home3d.js?v=3i"></script>
 <script src="/assets/pv.js?v=3" defer></script>
 </body>
 </html>
